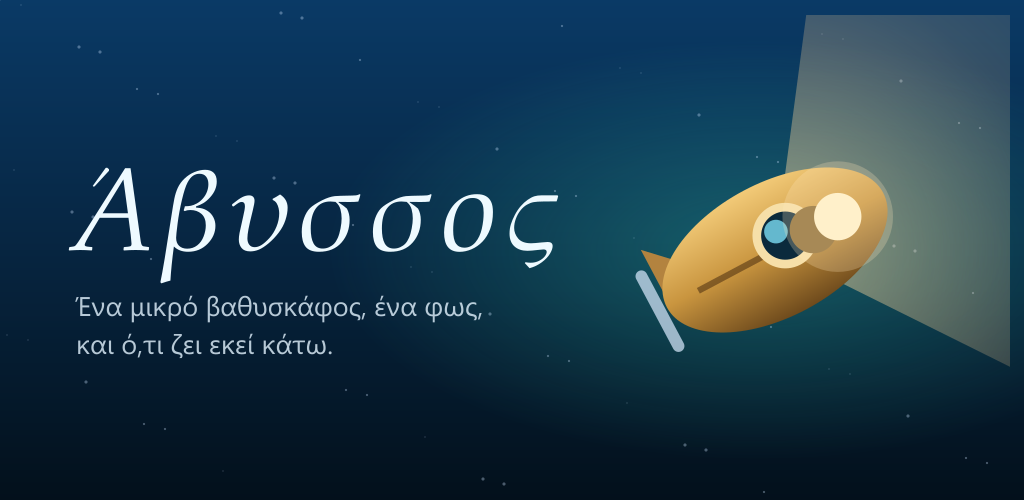
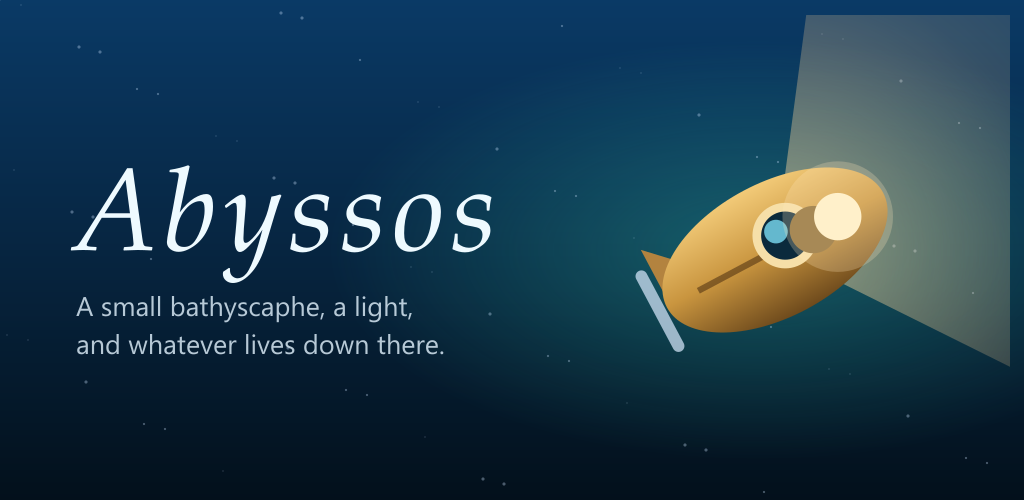
Store assets: five phone screenshots padded to 9:16, English feature graphic, English-first listing

Changed region(s): [[0.0938, 0.33, 0.5625, 0.57], [0.0625, 0.6, 0.4688, 0.72], [0.0625, 0.45, 0.0938, 0.51]]

diff --git a/store/listing.md b/store/listing.md
@@ -1,6 +1,8 @@
 # Κείμενα για το Google Play
 
-Όλα τα όρια χαρακτήρων είναι της Google. Τα ελληνικά μπαίνουν ως προεπιλεγμένη γλώσσα (el-GR), τα αγγλικά ως μετάφραση (en-US).
+Όλα τα όρια χαρακτήρων είναι της Google. **Προεπιλεγμένη γλώσσα της καταχώρισης: English (United States), en-US.** Όλα τα πεδία στο Console συμπληρώνονται στα αγγλικά. Τα ελληνικά παρακάτω είναι προαιρετική μετάφραση για αργότερα (Store listing → Manage translations).
+
+Έτοιμο υλικό στον φάκελο `store/`: `screenshot-1.png` έως `screenshot-5.png` (1013×1800, 9:16), `feature-graphic.png` (1024×500, αγγλικά), `icon-512.png`. Το υπογεγραμμένο πακέτο: `release/abyssos-release.aab` (`npm run android:release`).
 
 ## Ελληνικά (el-GR)
 
@@ -57,4 +59,4 @@ Every dive leaves you Light. Spend it with the Hermit, an old crab living in a r
 - **Κοινό-στόχος**: 13+ (ώστε να μην ισχύουν οι κανόνες για οικογενειακές εφαρμογές)
 - **Εικονίδιο 512×512**: `public/icons/icon-512.png`
 - **Feature graphic 1024×500**: `store/feature-graphic.png`
-- **Screenshots**: τουλάχιστον 2, έως 8, από το κινητό (κατακόρυφα, 16:9 έως 9:16, ελάχιστο 320 px). Προτεινόμενα: αρχική οθόνη, μάχη με τον προβολέα, κάρτες level-up, αφεντικό με μπάρα ζωής, κατάστημα με τον Ερημίτη.
+- **Screenshots**: `store/screenshot-1.png` έως `-5.png`. Η Google δέχεται 16:9 έως 9:16, οπότε τα 810×1800 του κινητού πήραν σκούρο περιθώριο στα πλάγια για να γίνουν 1013×1800.
